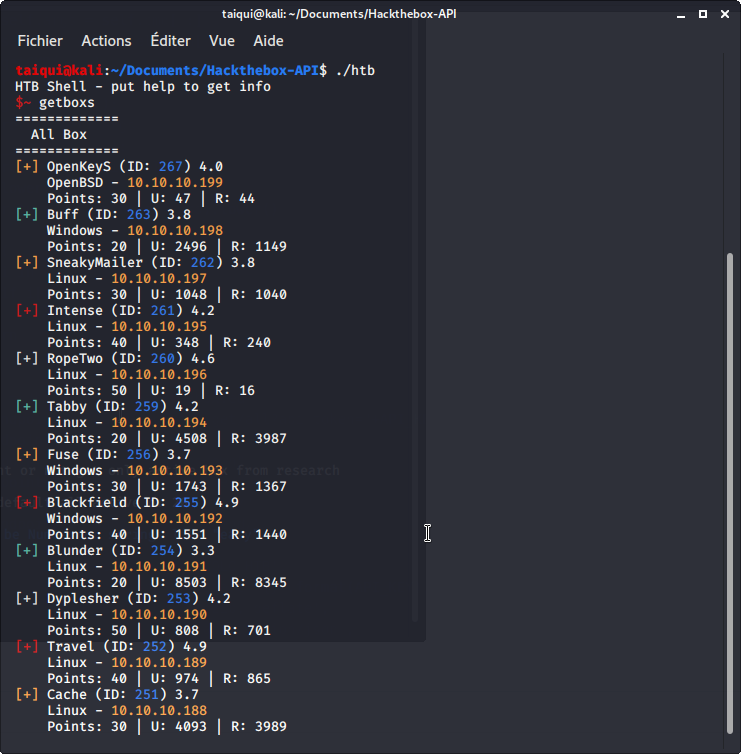
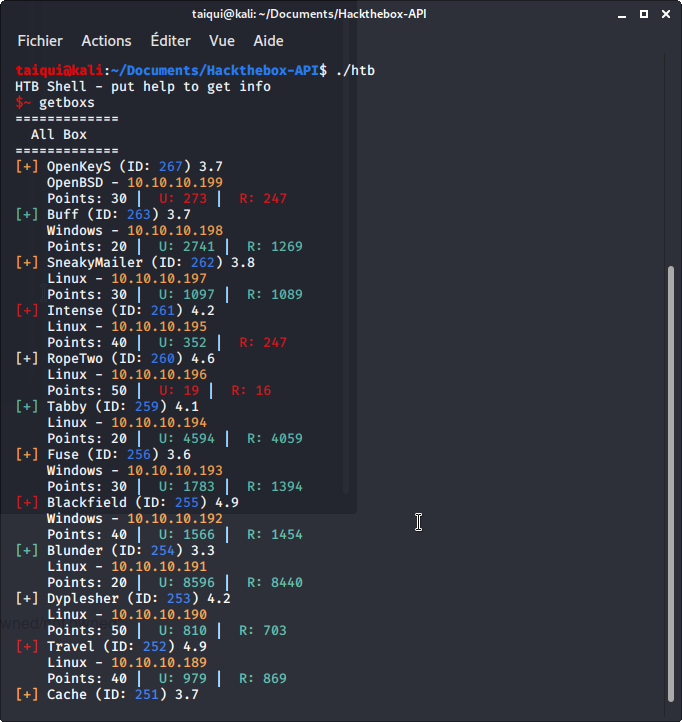
fix readme & img

diff --git a/README.md b/README.md
@@ -20,5 +20,3 @@ Hackthebox API in CLI
 
 
 
-# To-Do
-- fix print to set Color on U: x| R:x instead of "User owned/not owned" 
